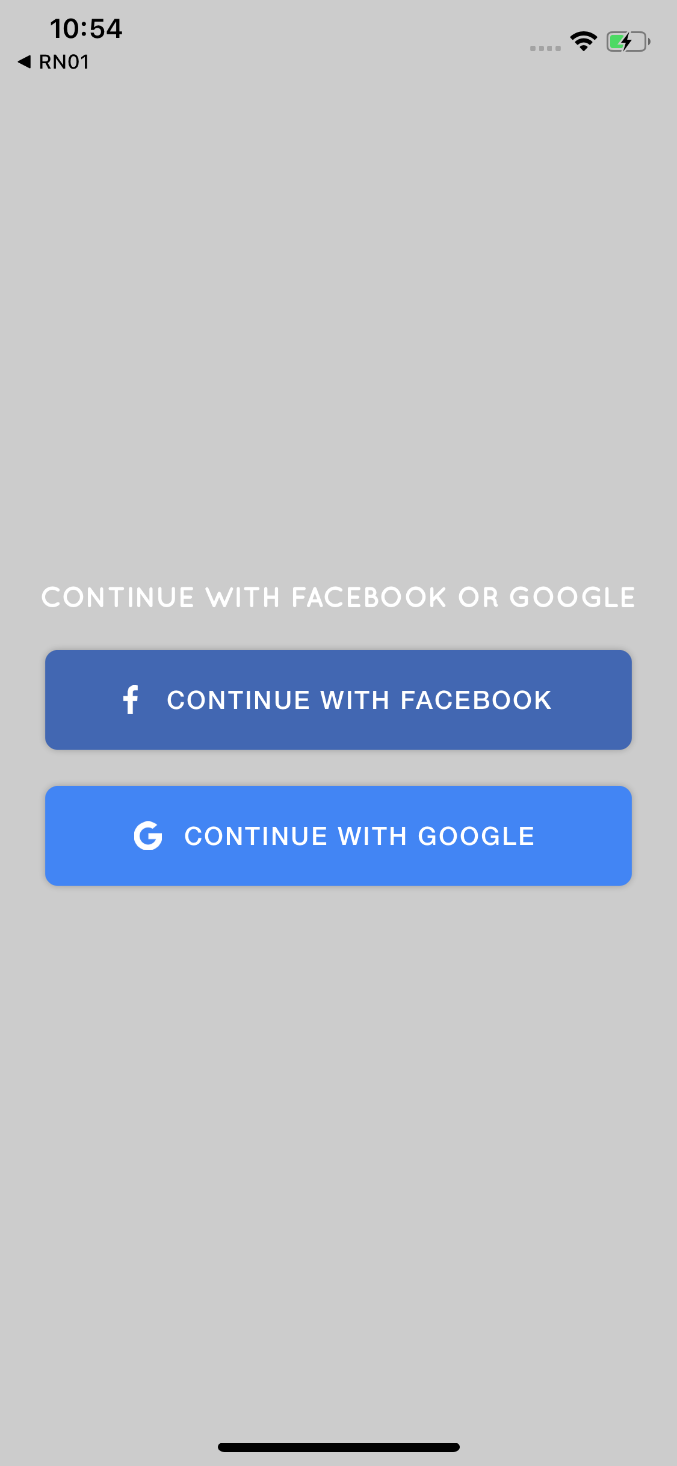
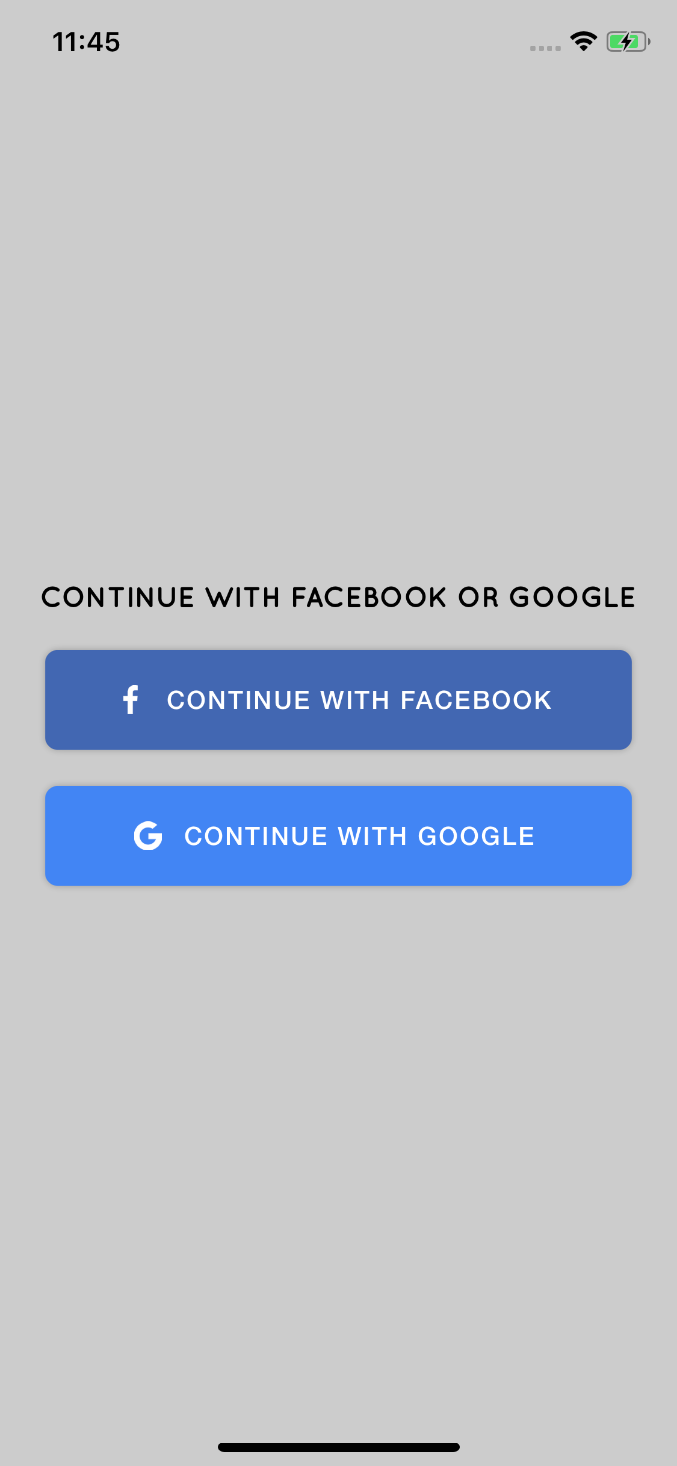
updated README

diff --git a/src/config/styles.js b/src/config/styles.js
@@ -18,6 +18,7 @@ export const STYLE_CONSTANTS = {
     DARK_RED: '#8B0000',
     GRAY: '#CCCCCC',
     LIGHT_BLUE: '#8EBADB',
+    BLACK: '#000000',
     WHITE: '#FFFFFF',
     YELLOW: '#FDB92C',
     FACEBOOK: '#4267B2',
@@ -36,7 +37,7 @@ export const STYLE_CONSTANTS = {
 STYLE_CONSTANTS.H1 = {
   fontFamily: STYLE_CONSTANTS.FONT.FONTFAMILY_BOLD,
   fontSize: 16,
-  color: STYLE_CONSTANTS.COLORS.WHITE,
+  color: STYLE_CONSTANTS.COLORS.BLACK,
   textTransform: 'uppercase',
 };
 

diff --git a/README.md b/README.md
@@ -32,6 +32,11 @@ A collection of curated and well maintained React Native boilerplates with vario
 
 #### Screenshots
 <div style="display: flex; justifyContent: center;">
-  <img src="./src/assets/images/RN-01-iOS.png" width=300px />
-  <img src="./src/assets/images/RN-01-Android.png" width=300px />
+  <img src="./src/assets/images/RN-01-iOS.png" width=300px alt="RN-01-iOS" />
+  <img src="./src/assets/images/RN-01-Android.png" width=300px alt="RN-01-Android" />
+</div>
+
+<div style="display: flex; justifyContent: center;">
+  <img src="./src/assets/images/RN-01-iOS-Dashboard.png" width=300px alt="RN-01-iOS-Dashboard" />
+  <img src="./src/assets/images/RN-01-Android-Dashboard.png" width=300px alt="RN-01-Android-Dashboard" />
 </div>
